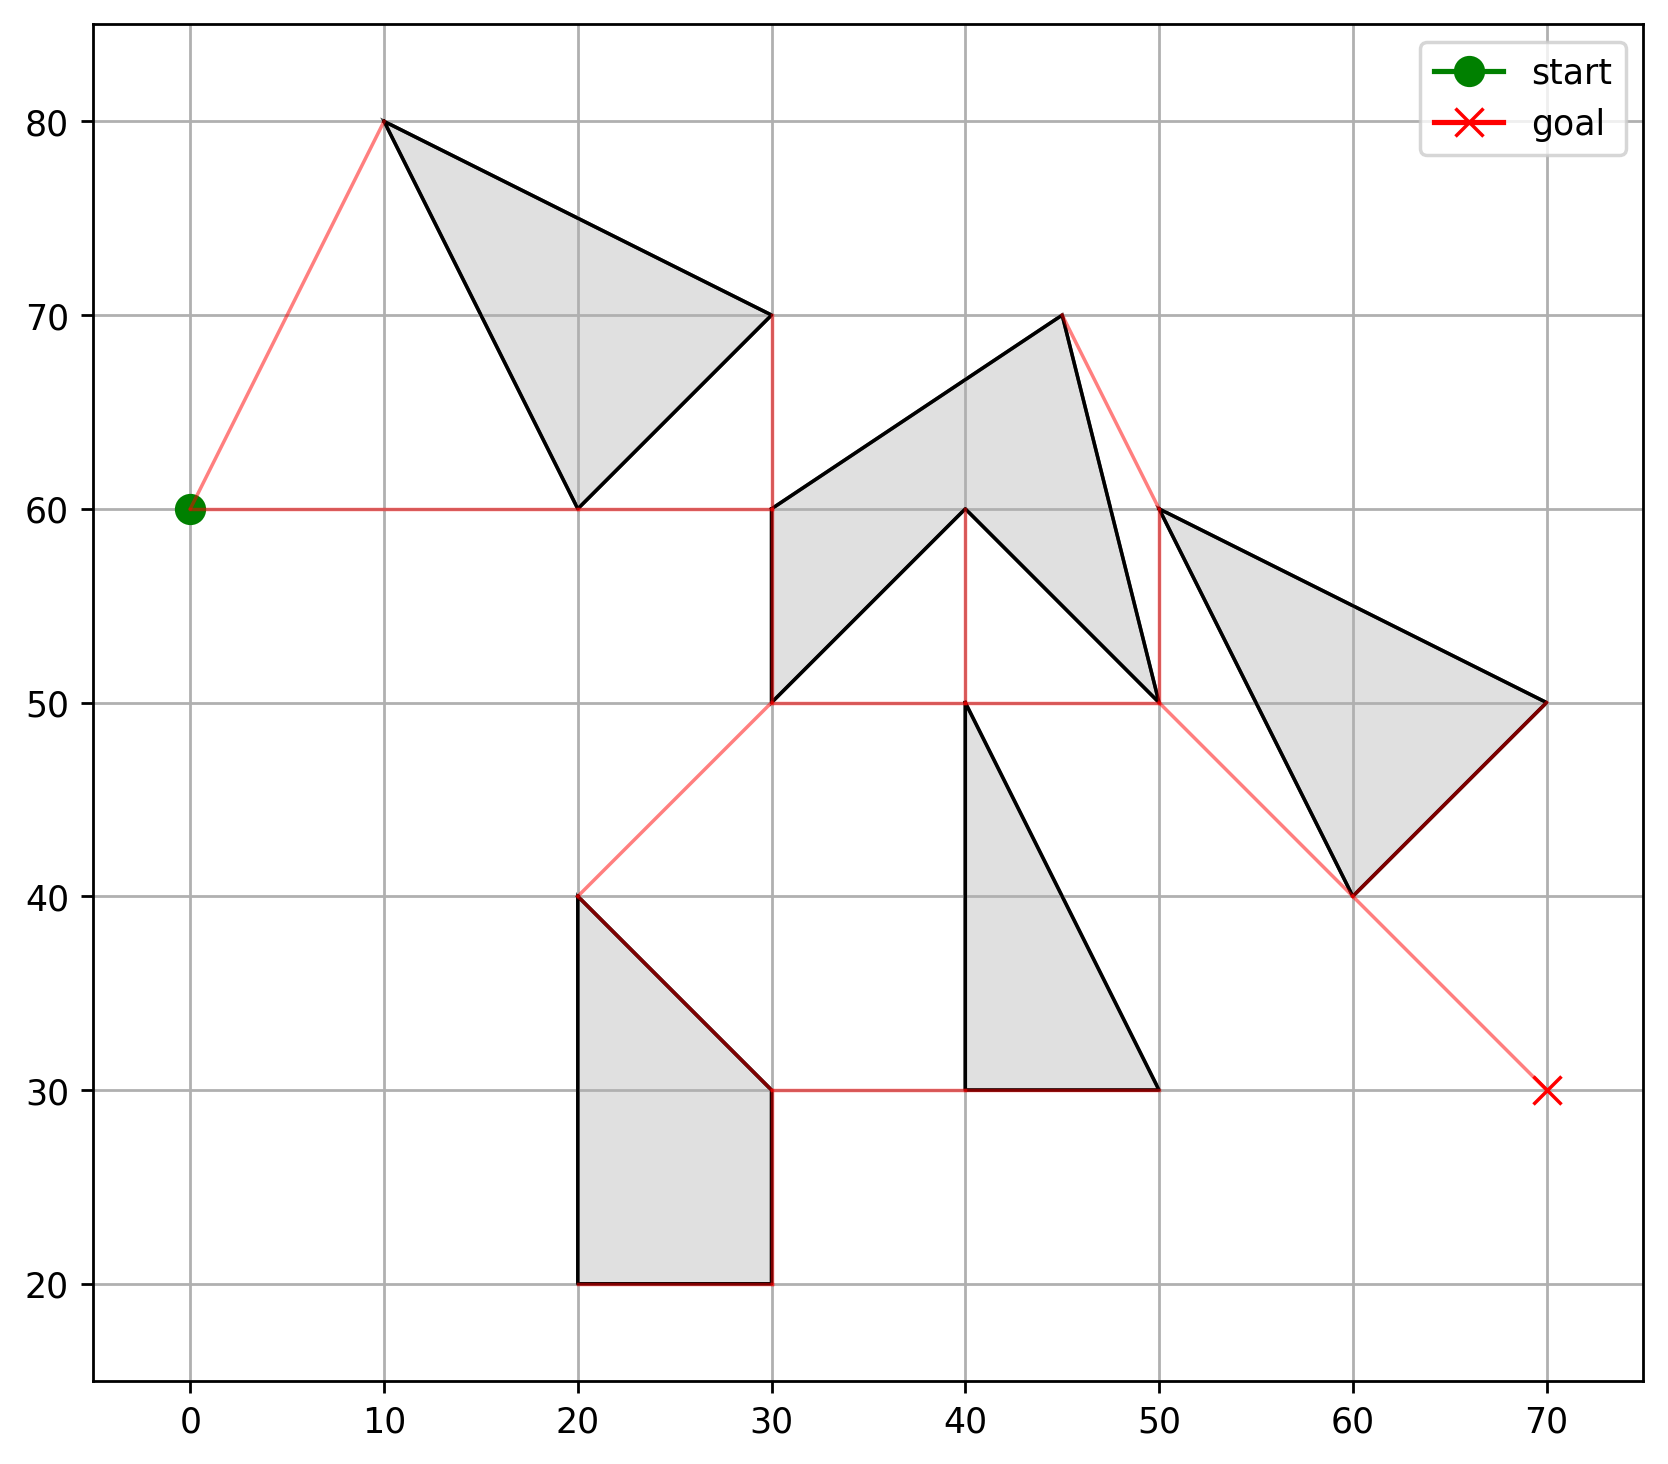
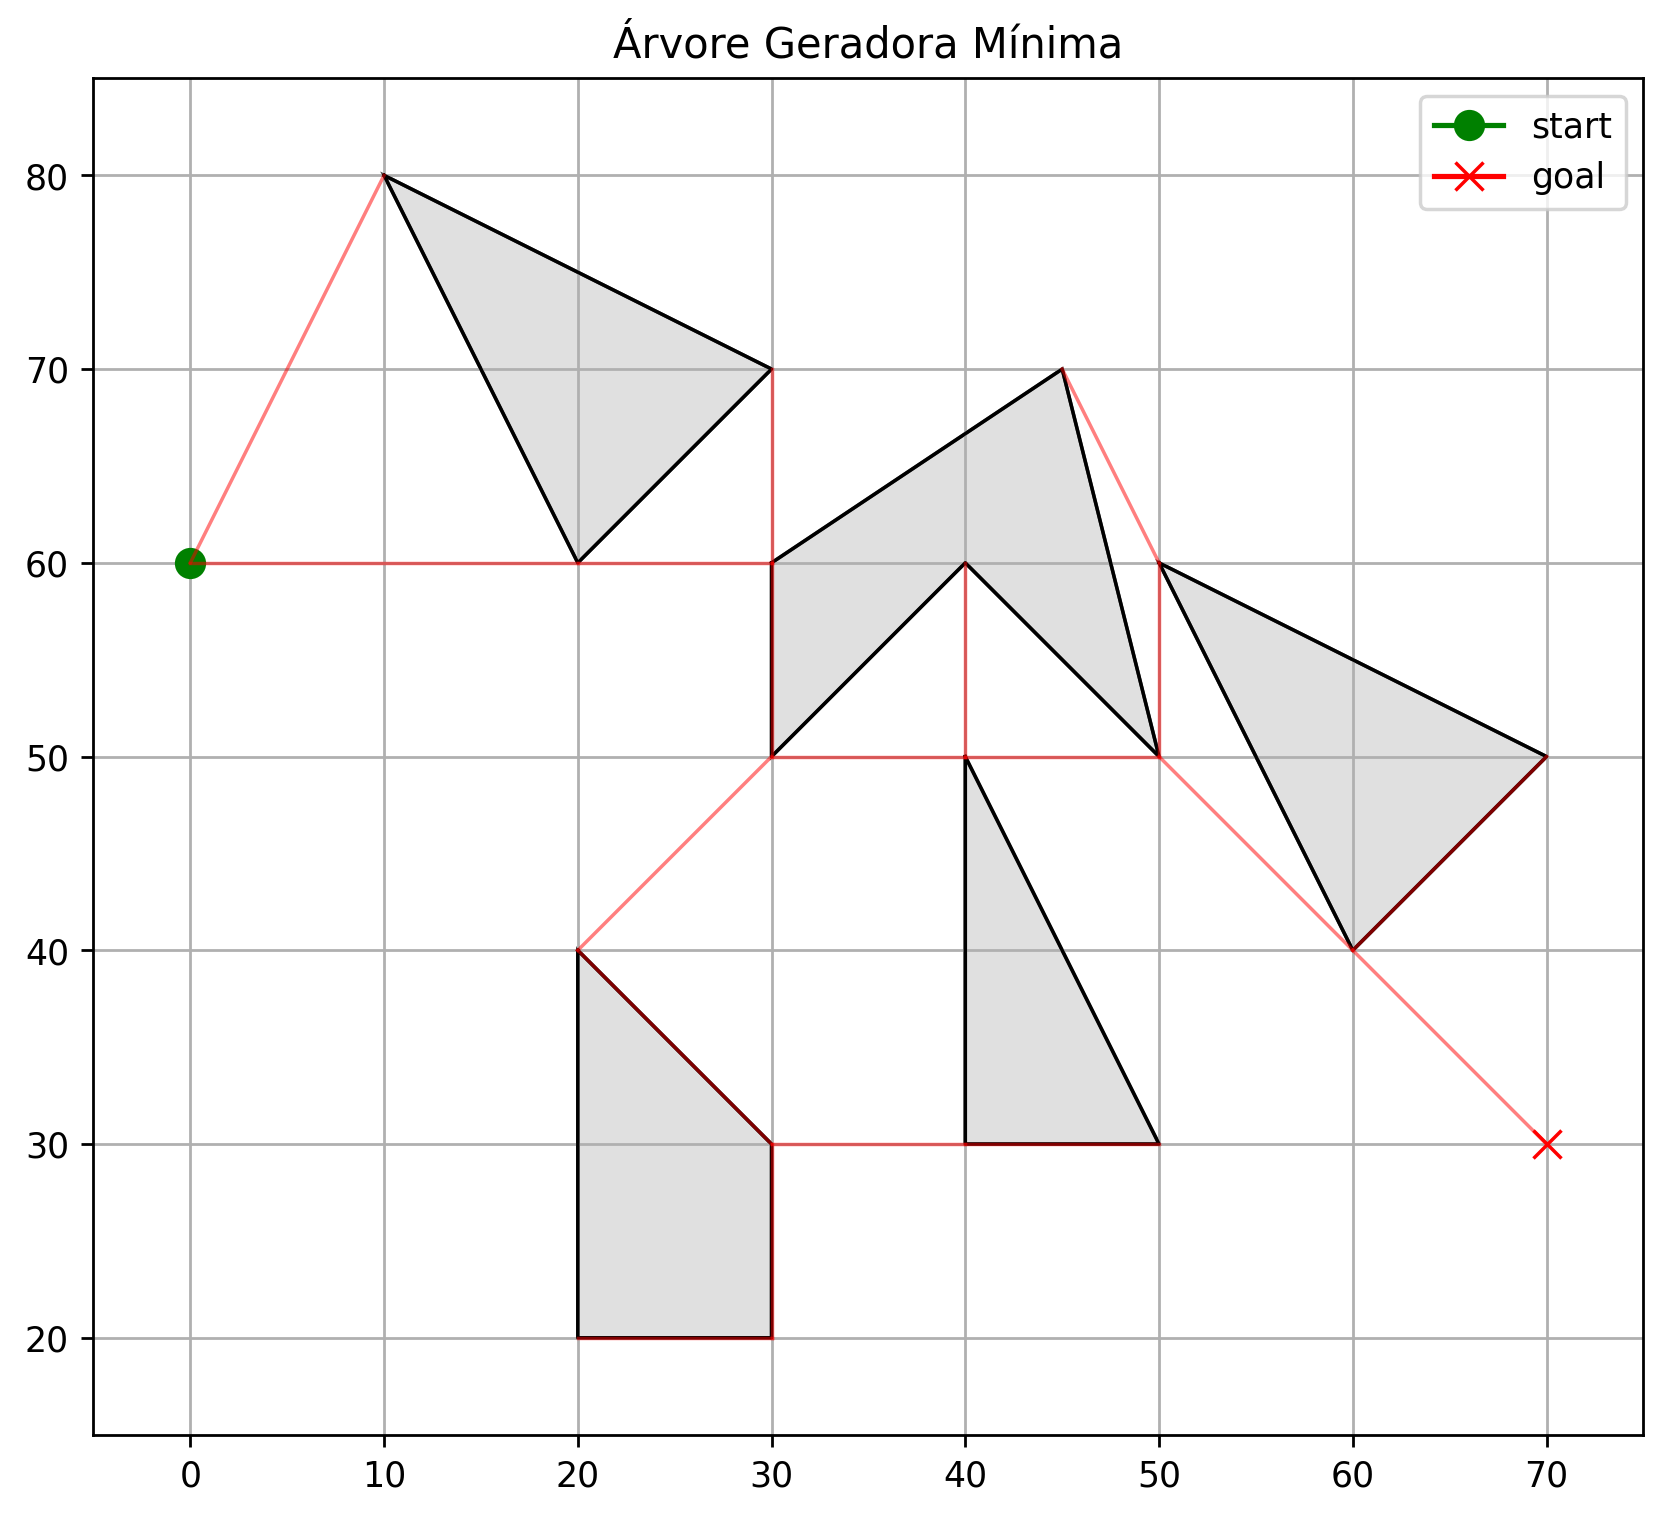
dijkstra fix

diff --git a/atividades/atividade-2/main.py b/atividades/atividade-2/main.py
@@ -150,17 +150,23 @@ def dijkstra(mst: nx.Graph, start, goal):
 def draw_map(start, goal, obstacles, G, output_path, figsize=(8, 8), padding=5.0, title=None):
     fig, ax = plt.subplots(figsize=figsize)
 
+    obstacles_float = []
     for obs in obstacles:
-        poly_patch = MplPolygon(obs, closed=True, facecolor='lightgray', edgecolor='black', alpha=0.7)
+        obs_float = [(float(x), float(y)) for x, y in obs]
+        obstacles_float.append(obs_float)
+        poly_patch = MplPolygon(obs_float, closed=True, facecolor='lightgray', edgecolor='black', alpha=0.7)
         ax.add_patch(poly_patch)
-        xs, ys = zip(*obs + [obs[0]])
+        xs, ys = zip(*obs_float + [obs_float[0]])
         ax.plot(xs, ys, color='black', linewidth=1)
 
-    ax.plot(start[0], start[1], marker='o', color='green', markersize=8, label='start')
-    ax.plot(goal[0], goal[1], marker='x', color='red', markersize=8, label='goal')
+    start_float = (float(start[0]), float(start[1]))
+    goal_float = (float(goal[0]), float(goal[1]))
 
-    xs = [start[0], goal[0]] + [x for obs in obstacles for x, _ in obs]
-    ys = [start[1], goal[1]] + [y for obs in obstacles for _, y in obs]
+    ax.plot(start_float[0], start_float[1], marker='o', color='green', markersize=8, label='start')
+    ax.plot(goal_float[0], goal_float[1], marker='x', color='red', markersize=8, label='goal')
+
+    xs = [start_float[0], goal_float[0]] + [x for obs in obstacles_float for x, _ in obs]
+    ys = [start_float[1], goal_float[1]] + [y for obs in obstacles_float for _, y in obs]
 
     ax.set_xlim(min(xs) - padding, max(xs) + padding)
     ax.set_ylim(min(ys) - padding, max(ys) + padding)
@@ -168,13 +174,16 @@ def draw_map(start, goal, obstacles, G, output_path, figsize=(8, 8), padding=5.0
     ax.grid(True)
     ax.legend()
 
-    for edge in G.edges(data=True):
-        v1, v2, weight = edge
-        ax.plot([v1[0], v2[0]], [v1[1], v2[1]], color='#FF0000', linewidth=1, alpha=0.5)
+    for edge in G.edges():
+        v1, v2 = edge
+        v1_float = (float(v1[0]), float(v1[1]))
+        v2_float = (float(v2[0]), float(v2[1]))
+        ax.plot([v1_float[0], v2_float[0]], [v1_float[1], v2_float[1]], color='#FF0000', linewidth=1, alpha=0.5)
         
     if title is not None:
         ax.set_title(title)
     
+    os.makedirs(os.path.dirname(output_path), exist_ok=True)
     fig.savefig(output_path, bbox_inches='tight', dpi=250)
     plt.show()
 
@@ -198,45 +207,47 @@ def main():
             print(obs)
         print()
         
-        print("PLOTANDO GRÁFICO DE VISIBILIDADE (plots/vis_grapsh)")
-        plot_file = "vis_graph.png"
-        draw_map(start, goal, obstacles, G, PLOT_PATH + plot_file)
+        print("PLOTANDO GRÁFICO DE VISIBILIDADE (plots/vis_graph)")
+        os.makedirs(PLOT_PATH, exist_ok=True)
+        plot_file = os.path.join(PLOT_PATH, "vis_graph.png")
+        draw_map(start, goal, obstacles, G, plot_file, title="Grafo de Visibilidade")
 
         print("SALVANDO GRAFO DE VISIBILIDADE (data/grafo.json)...")
-        os.makedirs('data', exist_ok=True)
-        save_graph(G, 'data/grafo.json')
+        os.makedirs(DATA_PATH, exist_ok=True)
+        save_graph(G, os.path.join(DATA_PATH, 'grafo.json'))
 
         print("CALCULANDO ÁRVORE GERADORA MÍNIMA (MST) VIA KRUSKAL")
         mst = compute_mst_kruskal(G)
         print("ÁRVORE GERADORA MÍNIMA ENCONTRADA COM SUCESSO!!")
         
         print("PLOTANDO ÁRVORE GERADORA MÍNIMA....")
-        plot_file = "mst_graph"
-        draw_map(start, goal, obstacles, mst, PLOT_PATH + plot_file)
+        plot_file = os.path.join(PLOT_PATH, "mst_graph.png")
+        draw_map(start, goal, obstacles, mst, plot_file, title="Árvore Geradora Mínima")
         
         print("EXECUTANDO DIJKSTRA PARA ENCONTRAR O CAMINHO MÍNIMO")
         minimum_path, cost = dijkstra(mst, start, goal)
         print("CAMINHO MÍNIMO ENCONTRADO COM SUCESSO!!")
-        save_graph(minimum_path, DATA_PATH + "diskstra_path.png")
+        
+        save_graph(minimum_path, os.path.join(DATA_PATH, "dijkstra_path.json"))
         
         # ========== DEBUG ===============
-    
         print("custo:", cost, type(cost))
         print("nós do path_graph:", list(minimum_path.nodes()))
         print("arestas do path_graph:", list(minimum_path.edges(data=True)))
-        # se seus nós são tuplas (x,y), mostre tipos e valores
         for n in minimum_path.nodes():
             print("node:", n, "type:", type(n))
             if isinstance(n, tuple):
                 print("  elems types:", [type(e) for e in n])
         
         print("PLOTANDO CAMINHO MÍNIMO...")
-        title = f"Custo mínimo encontrado: {cost}"
-        file_path = PLOT_PATH + "minimum_path.png"
-        draw_map(start, goal, obstacles, minimum_path, file_path, title)
+        title = f"Custo mínimo encontrado: {cost:.2f}"
+        file_path = os.path.join(PLOT_PATH, "minimum_path.png")
+        draw_map(start, goal, obstacles, minimum_path, file_path, title=title)
         
     except Exception as e:
         print("Erro ao desenhar mapa:", e)
+        import traceback
+        traceback.print_exc()
 
 if __name__ == "__main__":
     main()
